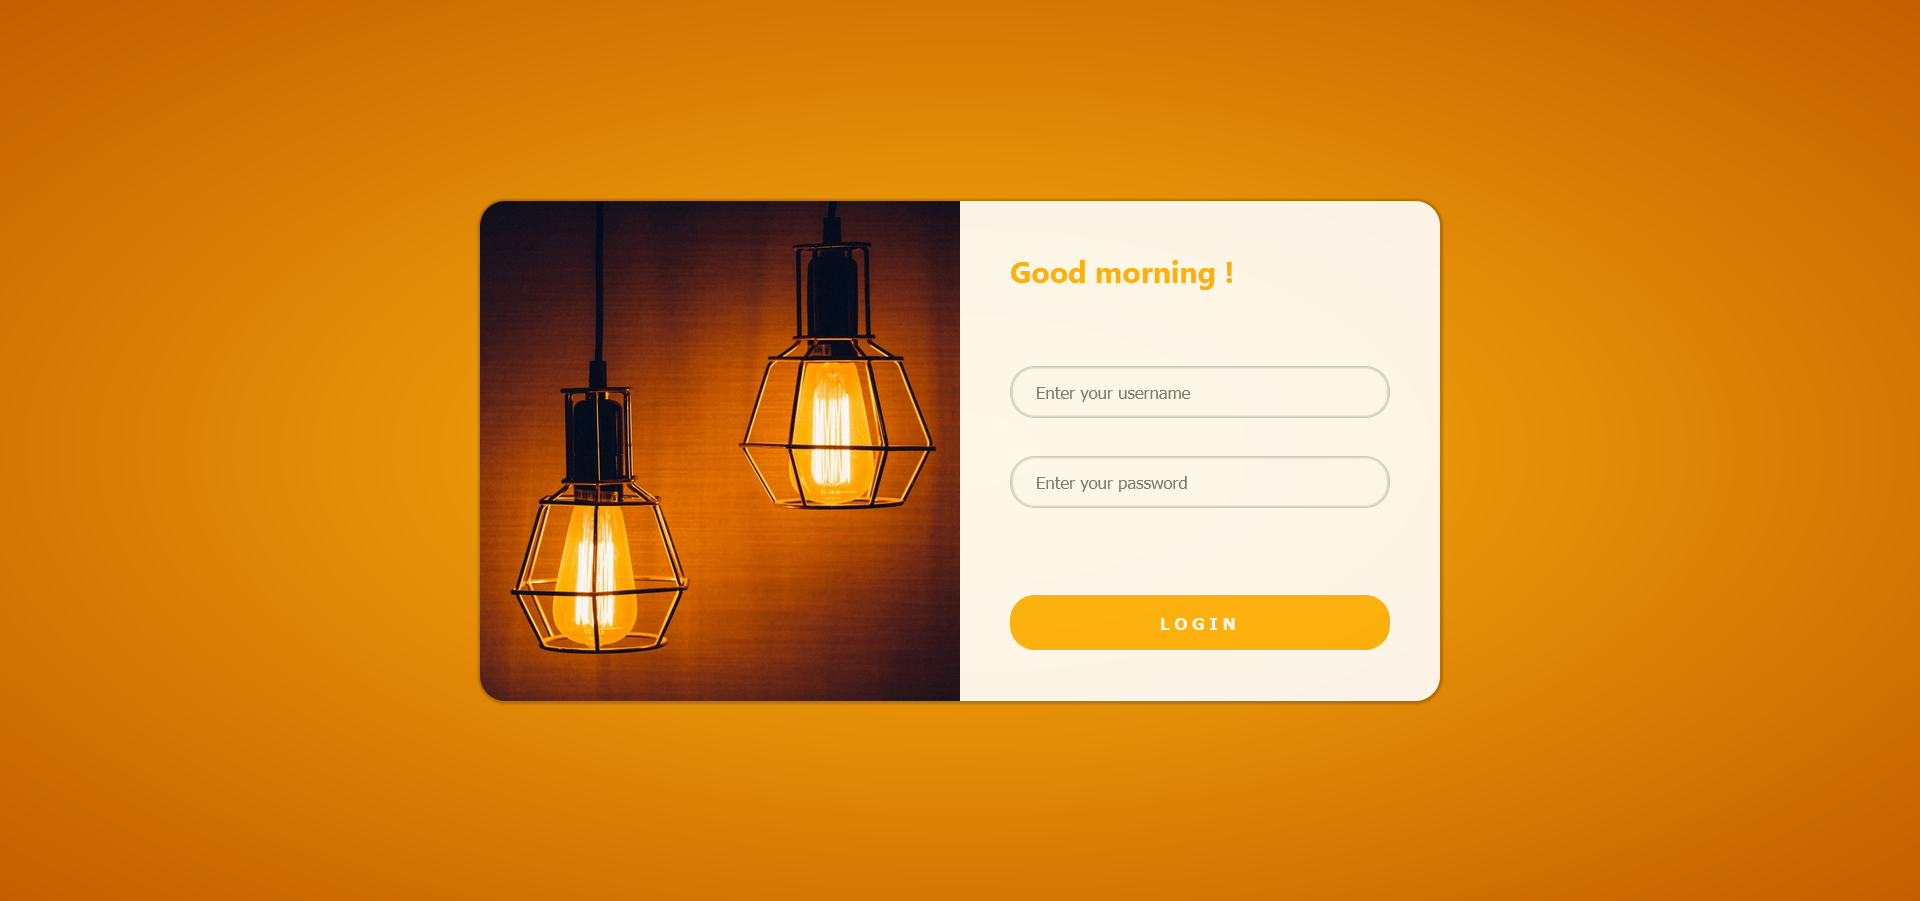
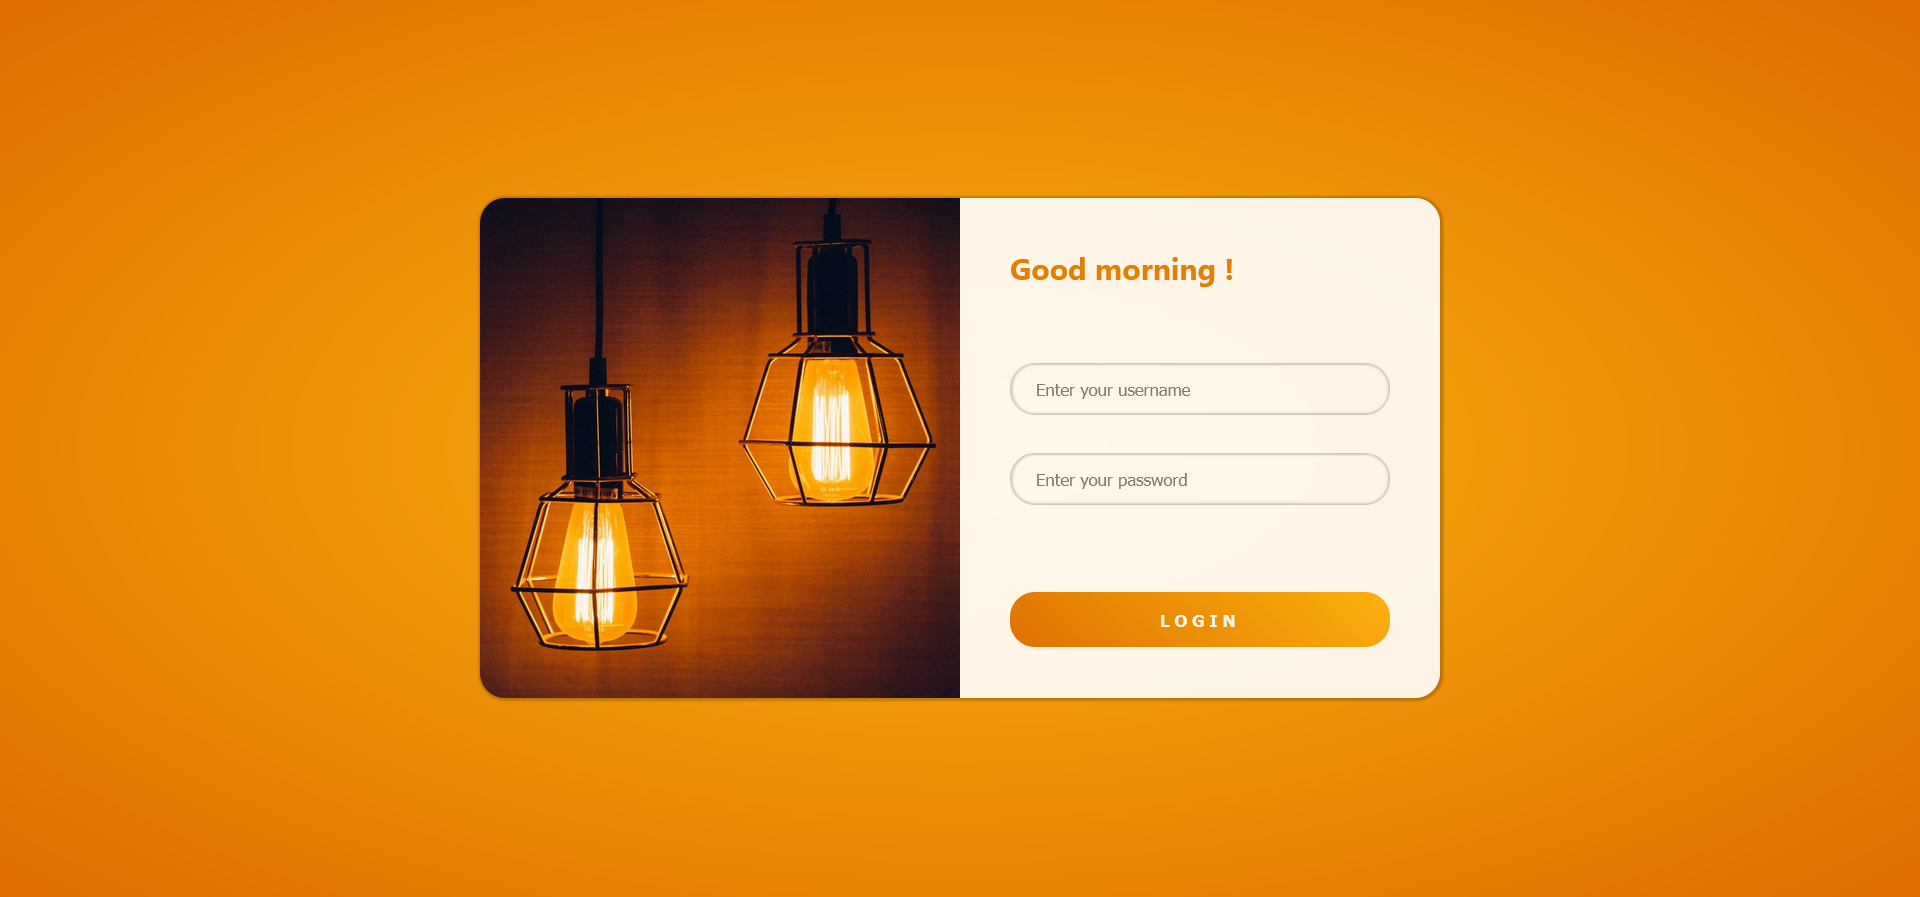
Add navbar with login form

diff --git a/login-nav/src/styles.css b/login-nav/src/styles.css
@@ -1,0 +1,88 @@
+html {
+    font-family: -apple-system, BlinkMacSystemFont, 'Segoe UI', Roboto, Oxygen, Ubuntu, Cantarell, 'Open Sans', 'Helvetica Neue', sans-serif;
+    width: 100%;
+    height: 100%;
+    color: white;
+}
+
+body {
+    background: radial-gradient(#FDB30E, #c25e00);
+}
+
+nav {
+    overflow: hidden;
+    background-color: #333;
+    position: fixed;
+    top: 0;
+    left: 0;
+    width: 100%;
+}
+
+main {
+    margin-top: 30px;
+}
+
+ul {
+    list-style-type: none;
+    margin: 0;
+}
+
+li {
+    float: left;
+}
+
+li a {
+    display: block;
+    color: white;
+    text-align: center;
+    padding: 14px 16px;
+    text-decoration: none;
+}
+
+li a:hover {
+    background-color: #111;
+}
+
+.my-form {
+    float: right;
+    margin: 0;
+    padding: 10px 16px;
+}
+
+.my-form .login {
+    float: left;
+    font-size: 18px;
+    padding-top: 4px;
+    margin-right: 20px;
+}
+
+.my-form input[type=text],
+.my-form input[type=password] {
+    padding: 6px 12px;
+    border-radius: 8px;
+    box-sizing: border-box;
+    transition: 0.3s ease-in-out;
+    margin-right: 20px;
+}
+
+.my-form input[type=text]:hover,
+.my-form input[type=password]:hover {
+    box-shadow: 0 0 2px 2px #FDB30E;
+}
+
+.my-form input[type=submit] {
+    background: linear-gradient(45deg, #DD6D00, #FDB30E);
+    color: white;
+    font-weight: bold;
+    padding: 6px 12px;
+    border: none;
+    border-radius: 8px;
+    cursor: pointer;
+    letter-spacing: 0.1em;
+    transition: 0.3s ease-in-out;
+    margin-right: 30px;
+}
+
+.my-form input[type=submit]:hover {
+    filter: brightness(1.1);
+}

diff --git a/login-nav/src/index.html b/login-nav/src/index.html
@@ -1,0 +1,32 @@
+<!DOCTYPE html>
+<html lang="en">
+
+<head>
+    <meta charset="UTF-8">
+    <meta name="viewport" content="width=device-width, initial-scale=1.0">
+    <link rel="stylesheet" href="styles.css">
+    <title>Navbar login</title>
+</head>
+
+<body>
+    <nav>
+        <ul>
+            <li><a class="active" href="#home">Home</a></li>
+            <li><a href="#news">News</a></li>
+            <li><a href="#contact">Contact</a></li>
+            <li><a href="#about">About</a></li>
+        </ul>
+        <form class="my-form">
+            <div class="login">Connect</div>
+            <input type="text" id="fname" name="firstname" placeholder="Enter your username">
+            <input type="password" id="lname" name="lastname" placeholder="Enter your password">
+
+            <input type="submit" value="LOGIN">
+        </form>
+    </nav>
+    <main>
+
+    </main>
+</body>
+
+</html>
